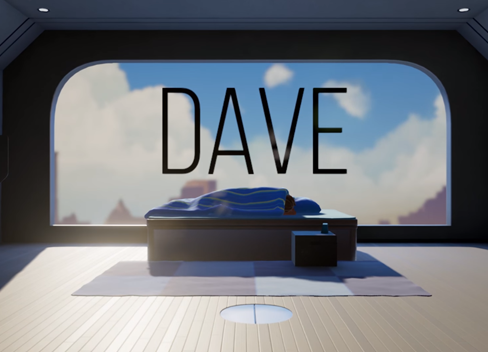
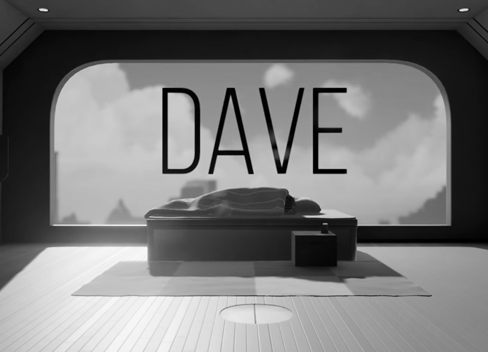
i like bw

diff --git a/projects/vaporVR.md b/projects/vaporVR.md
@@ -3,10 +3,9 @@ layout:    page
 title:     VAPOR_VR
 permalink: /vaporvr/
 ---
-<br>
 <div align="center">
-
-<p> yeah
+<img src="/images/portfolio/vapor_flyer.png">
+<p>First off: I am not a game dev and have little experience with modeling/lighting/game mechanics or anything of this nature. This project was more of an experiment testing the possibilities of spatial sound in VR. I built a small scene set on a vaporwave themed island, using Unity Engine, Oculus spatializer plugins and SketchUp (for basic models). As you move through the scene on your trusty hoverboard, you can explore different digital artworks that each have their own soundtrack.<br> The soundtrack is available <a href="https://nokia444.bandcamp.com/"> here</a>, which I made in an evening. The game I would rather not share, because it would give you eye cancer.
 </p>
  <br>
 <i>More content soon</i>

diff --git a/about.md b/about.md
@@ -10,6 +10,7 @@ I am a
 - producer
 - media artist
 
+
 Get in touch on [Instagram](https://instagram.com/lumsdnb), [Twitter](https://twitter.com/lumsdnb) or via jeremy@lums.io
 
 [Check out my music collection.](https://bandcamp.com/iamlums)
